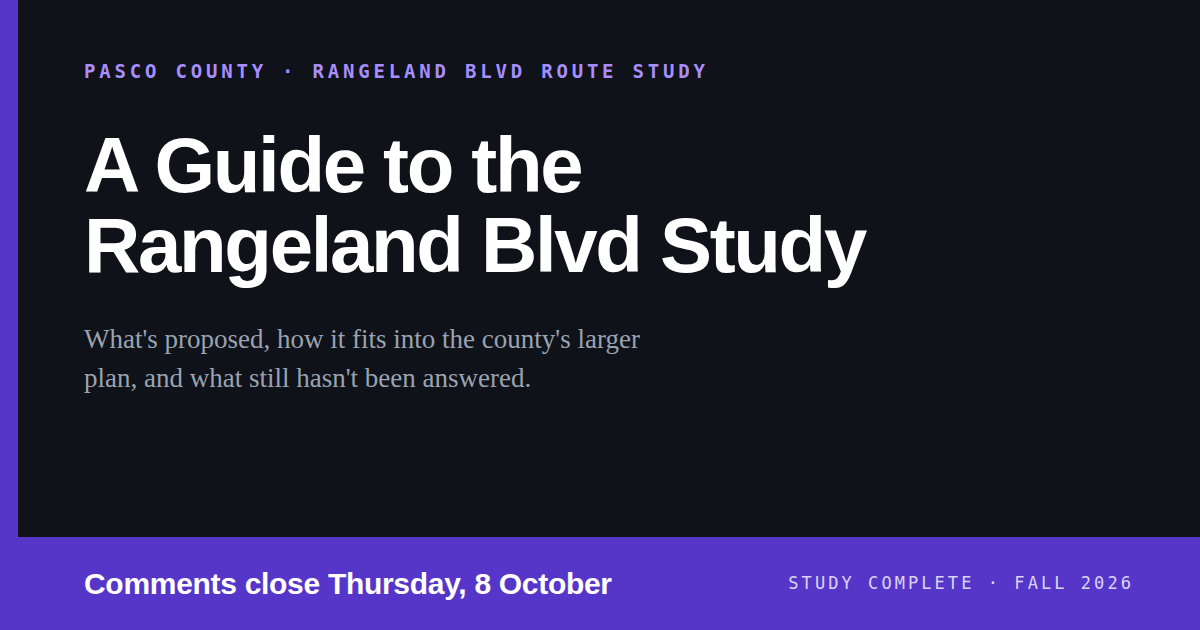
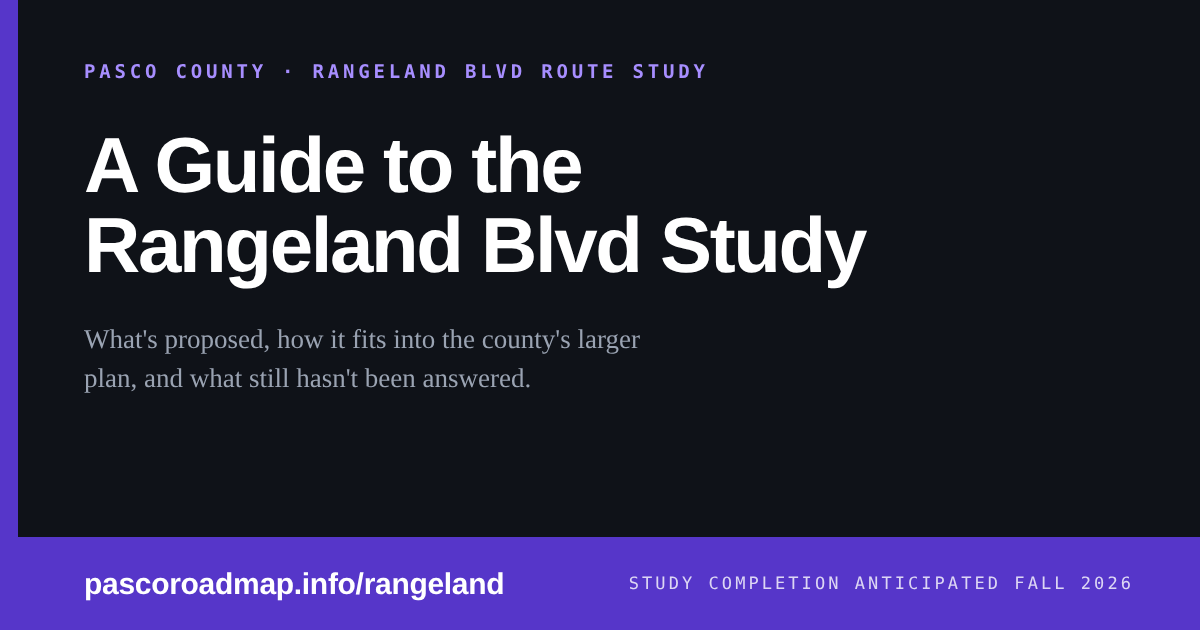
Add recent Commission and MPO records to the Timeline; refresh the project list and Rangeland card
- Timeline: 22 Sept and 6 Oct Commission minutes (Rangeland remarks and the
  "future meeting on Rangeland" line); the 5 Aug CAC and TAC minutes and the
  1 Sept special MPO Board agenda for the 2026 TRIP priorities (Rangeland and
  Sunlake). No Board outcome is recorded; the entries say "on the agenda".
- Project list: drop I-75 at SR 52 Interchange Improvements (no longer on
  FDOT's list); US 41 (Land O' Lakes Blvd) Resurfacing moves to Construction.
- Rangeland link-preview card: drop the 8 October note, right-hand text now
  "Study completion anticipated Fall 2026"; cards redrawn.
- Guide's process graphic: "NOW - AFTER WORKSHOP #3".
- CLAUDE.md and README_3.md: stale-prose notes brought up to date.

Claude-Session: https://claude.ai/code/session_01M5BpBjkqpWxP3qKWrohU5E

diff --git a/README_3.md b/README_3.md
@@ -186,8 +186,9 @@ trustworthy than one that never appears to err.
 ## Dates that will go stale
 
 - **Workshop #3, 24 September 2026** — has happened. The meeting box switches to
-  its post-workshop copy automatically, but some prose in sections 4, 5, 8 and 9
-  is still written in the future tense.
-- **Comment deadline, 8 October 2026** — after it passes, update the meeting box,
-  the "Still ahead" list and section 9, or add a note at the top.
+  its post-workshop copy automatically. One first-person sentence in the section on
+  the intersections ("They should be on a board at the workshop...") is still in
+  the future tense (section 5); it is Patrick's wording, so ask him before changing it.
+- **Comment deadline, 8 October 2026** — has passed; the meeting box, the "Still
+  ahead" list and section 9 already say so.
 - **"Updated" date** in the page header — bump it with each substantive change.

diff --git a/CLAUDE.md b/CLAUDE.md
@@ -236,8 +236,10 @@ silently at Patrick's request, as barely anyone had seen them. Still open:
 - Figures written in words ("ten thousand", "six of the eleven"), the "10 / 11" and
   "6 → 3" stat tiles, and the LOS chart's aria-label are not linked to the facts
   (all checked correct on 28 Sep 2026).
-- The guide's prose still refers to Workshop #3 and the 8 October 2026 deadline
-  as upcoming in places.
+- The guide's meeting box, "Still ahead" list and section 9 now treat Workshop #3
+  and the 8 October 2026 deadline as past (checked 27 Oct 2026). One first-person
+  sentence in the intersection questions (section 5: "They should be on a board at
+  the workshop...") is still in the future tense - Patrick's wording, so ask him.
 
 Decided: the site shows evening-peak grades only, and says so where grades appear.
 
